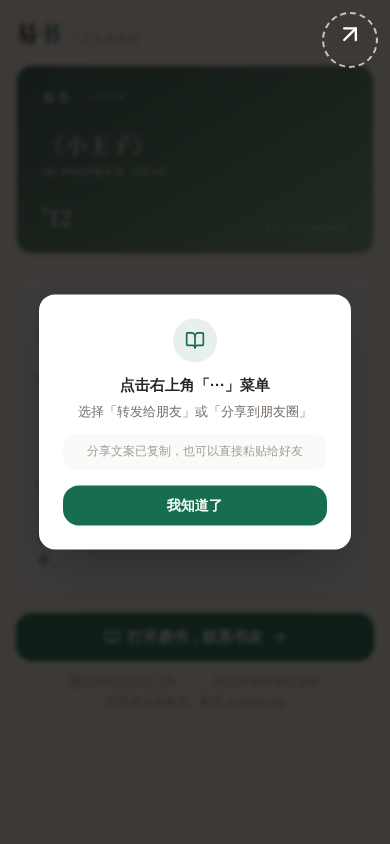
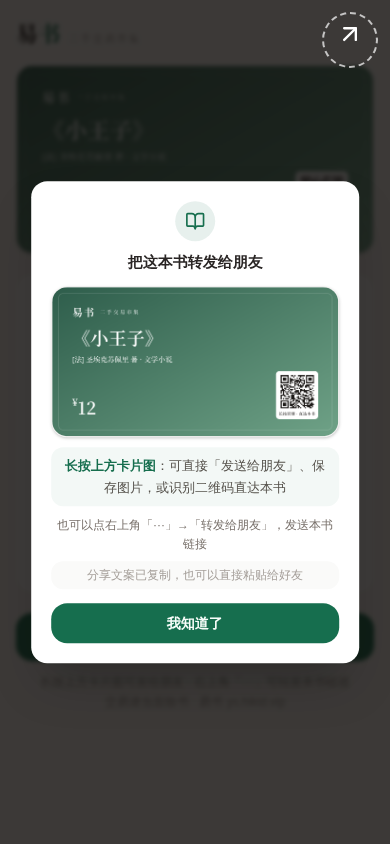
e7ee0c88-8c68-432b-9562-e955e027618e

diff --git a/worklog.md b/worklog.md
@@ -244,3 +244,22 @@ Stage Summary:
 - 微信分享闭环修正完成：应用内点分享 → 整页跳书籍落地页 → 「···」转发出去的卡片 = 本书链接 + 书名标题 + 书籍 OG 卡图；好友点开直达该书
 - 卖家现在也能分享自己的已上架书
 - 微信内无 JS-SDK 的前提下，卡片描述文字仍为默认抓取（需认证服务号才能自定义），链接/标题/缩略图均已正确
+
+---
+Task ID: 11
+Agent: Super Z (main agent)
+Task: 「微信转发出去的是本书链接，能否直接转发这个卡片」——卡片图直发 + 二维码闭环
+
+Work Log:
+- 方案定性：微信「···」对 H5 只能转发链接卡（无 JS-SDK 无法自定义），无法程序化直发图片；落地做法=把分享卡图放进引导浮层，微信原生支持长按图片 →「发送给朋友」/保存/识别二维码
+- OG 动态卡新增二维码：qrcode 库（bun 安装，同步 bun.lock）生成指向 {site}/book/{id} 的 PNG data URI，白色圆角面板置于右下角 + 「长按识别 · 直达本书」；NEXT_PUBLIC_SITE_URL 兜底 ys.hikid.vip；try/catch 失败降级为原口号版卡片
+- share-guide.tsx 重构：新增 cardUrl prop，浮层内嵌卡图 + 「长按上方卡片图」提示 + 「···」链接转发备用路径；浮层内部点击 stopPropagation 不再误关；文案改为「把这本书转发给朋友」
+- 落地页传 cardUrl=/api/og/book/{id}，页脚提示更新为「长按上方卡片图可发给朋友 · 右上角「···」可转发本书链接」
+- 排查插曲：Vercel 生产 SHUJI_DATABASE_URL 显示为空 → 实为 type:sensitive 只写变量（API 永不回读），生产配置完好；沙箱本会话 Neon Postgres 握手不通（TCP 通但 Prisma P1001），本地验证改用临时 OG_TEST_BOOK 开关渲染后剔除
+- 本地+生产双重验证：pyzbar 解码生产卡片二维码 = https://ys.hikid.vip/book/seed-04 ✓；verify-share-flow.mjs 升级卡图断言后 8/8 通过；截图目检引导浮层（卡图+二维码+双路径提示）视觉正常
+- 提交 696471e + 脚本适配小提交，部署 READY；沙箱全库 mode 755 噪音已用 core.fileMode false 屏蔽
+
+Stage Summary:
+- 微信内两条转发路径齐备：①长按卡图直发图片（含二维码，好友识码直达本书）②「···」转发本书链接卡；朋友圈可保存图后发图
+- 书籍 OG 卡带二维码成为自足分享物；链接卡/落地页/浮层三条路径的文案与视觉统一
+- 本地 .env.local 已用生产同款连接串恢复（gitignored，不入库）；会话遗留提醒：凭据轮换
